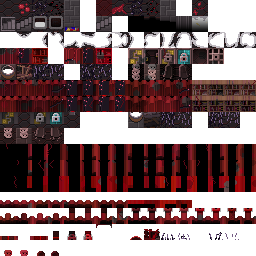
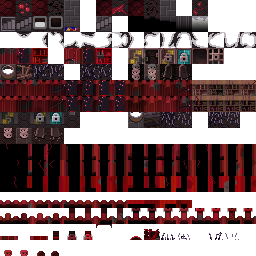
28단계 수정: 탑의 심장 잔디(지형 장식 그림의 원작 버섯 → 검은 잔디, 역행 중 분홍), 바닥을 어두운 검붉은색 + 명암으로

diff --git a/core/src/main/java/com/shatteredpixel/shatteredpixeldungeon/Assets.java b/core/src/main/java/com/shatteredpixel/shatteredpixeldungeon/Assets.java
@@ -32,7 +32,9 @@ public class Assets {
 	}
 
 	public static class Environment {
-		public static final String TERRAIN_FEATURES = "environment/terrain_features.png";
+		//Maze Tower: 잔디·장식 겹침 그림. 탑의 심장 줄의 원작 버섯을 검은 잔디로 (역행 중에는 분홍 잔디). 원작: terrain_features.png
+		public static final String TERRAIN_FEATURES = "environment/maze_terrain_features.png";
+		public static final String TERRAIN_FEATURES_RETURN = "environment/maze_terrain_features_return.png";
 		public static final String RAISED_TERRAIN = "environment/raised_terrain.png";
 
 		public static final String VISUAL_GRID          = "environment/visual_grid.png";

diff --git a/core/src/main/java/com/shatteredpixel/shatteredpixeldungeon/MazeRetreat.java b/core/src/main/java/com/shatteredpixel/shatteredpixeldungeon/MazeRetreat.java
@@ -170,6 +170,11 @@ public class MazeRetreat {
 		return tex;
 	}
 
+	public static String features( String tex ){
+		if ((active() || pendingBegin) && Assets.Environment.TERRAIN_FEATURES.equals(tex)) return Assets.Environment.TERRAIN_FEATURES_RETURN;
+		return tex;
+	}
+
 	public static String water( String tex ){
 		if ((active() || pendingBegin) && Assets.Environment.WATER_HALLS.equals(tex)) return Assets.Environment.WATER_HALLS_RETURN;
 		return tex;

diff --git a/core/src/main/java/com/shatteredpixel/shatteredpixeldungeon/tiles/TerrainFeaturesTilemap.java b/core/src/main/java/com/shatteredpixel/shatteredpixeldungeon/tiles/TerrainFeaturesTilemap.java
@@ -41,7 +41,7 @@ public class TerrainFeaturesTilemap extends DungeonTilemap {
 	private SparseArray<Trap> traps;
 
 	public TerrainFeaturesTilemap(SparseArray<Plant> plants, SparseArray<Trap> traps) {
-		super(Assets.Environment.TERRAIN_FEATURES);
+		super(com.shatteredpixel.shatteredpixeldungeon.MazeRetreat.features(Assets.Environment.TERRAIN_FEATURES)); //Maze Tower: 역행 중 분홍 잔디
 
 		this.plants = plants;
 		this.traps = traps;
